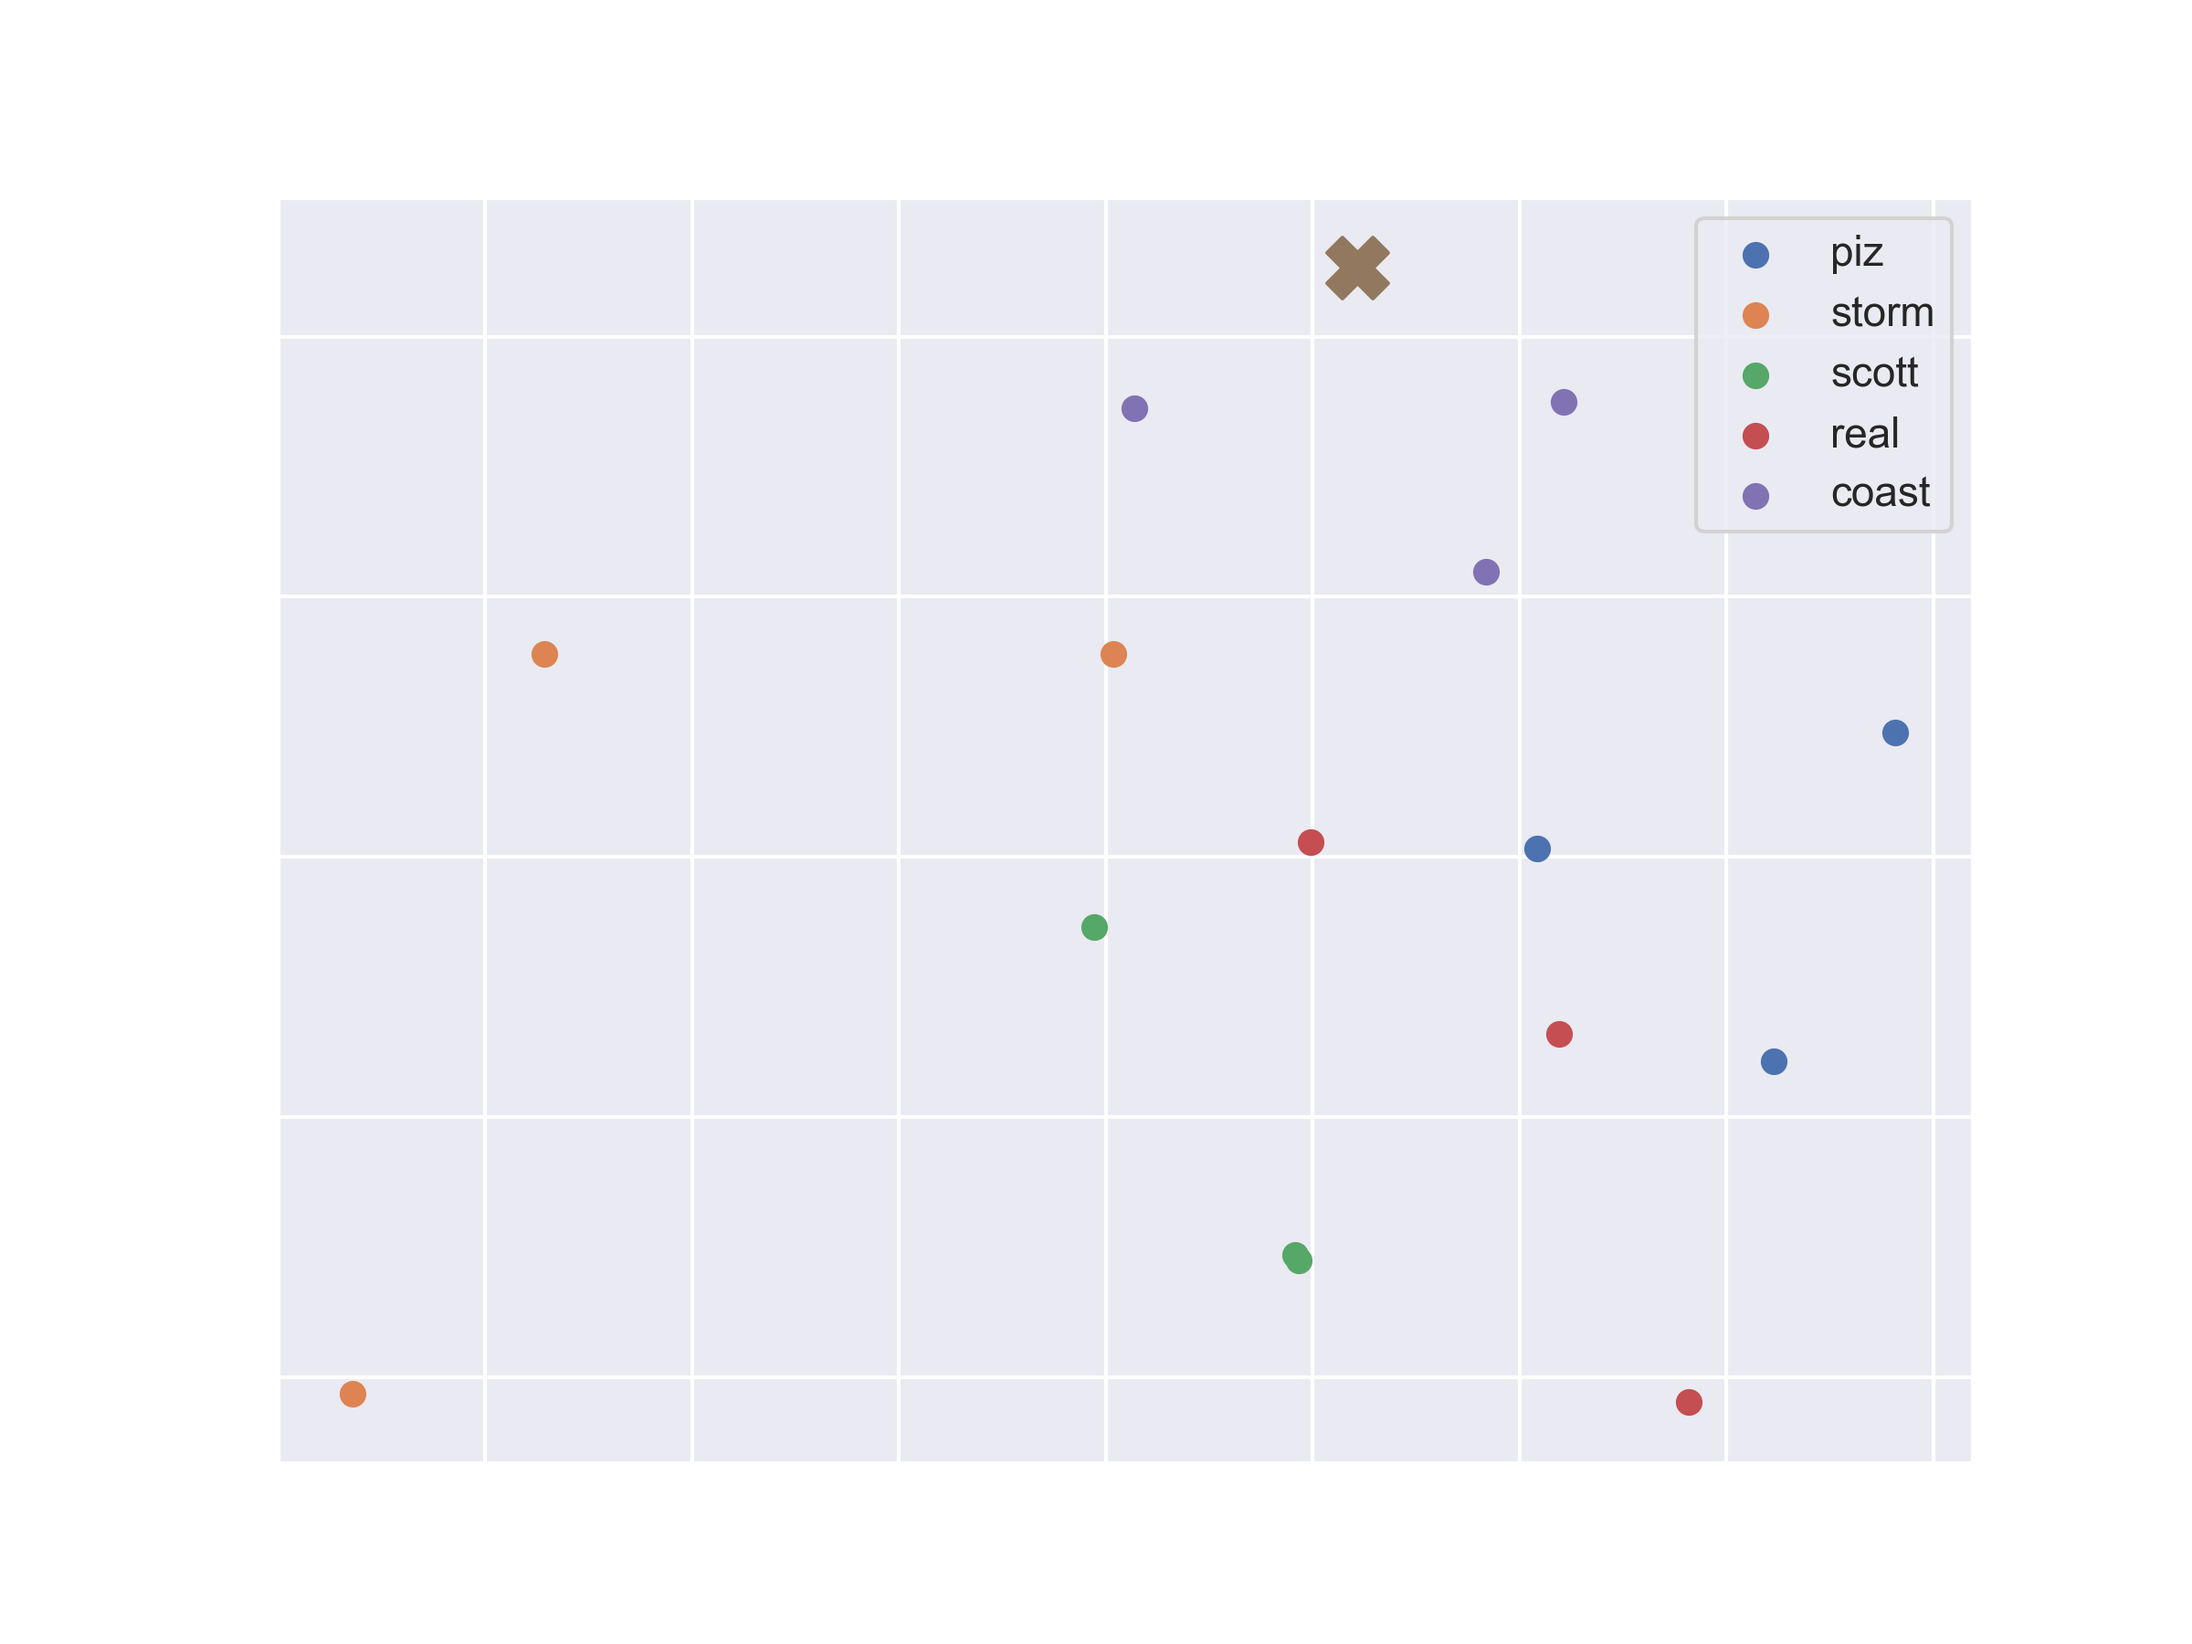
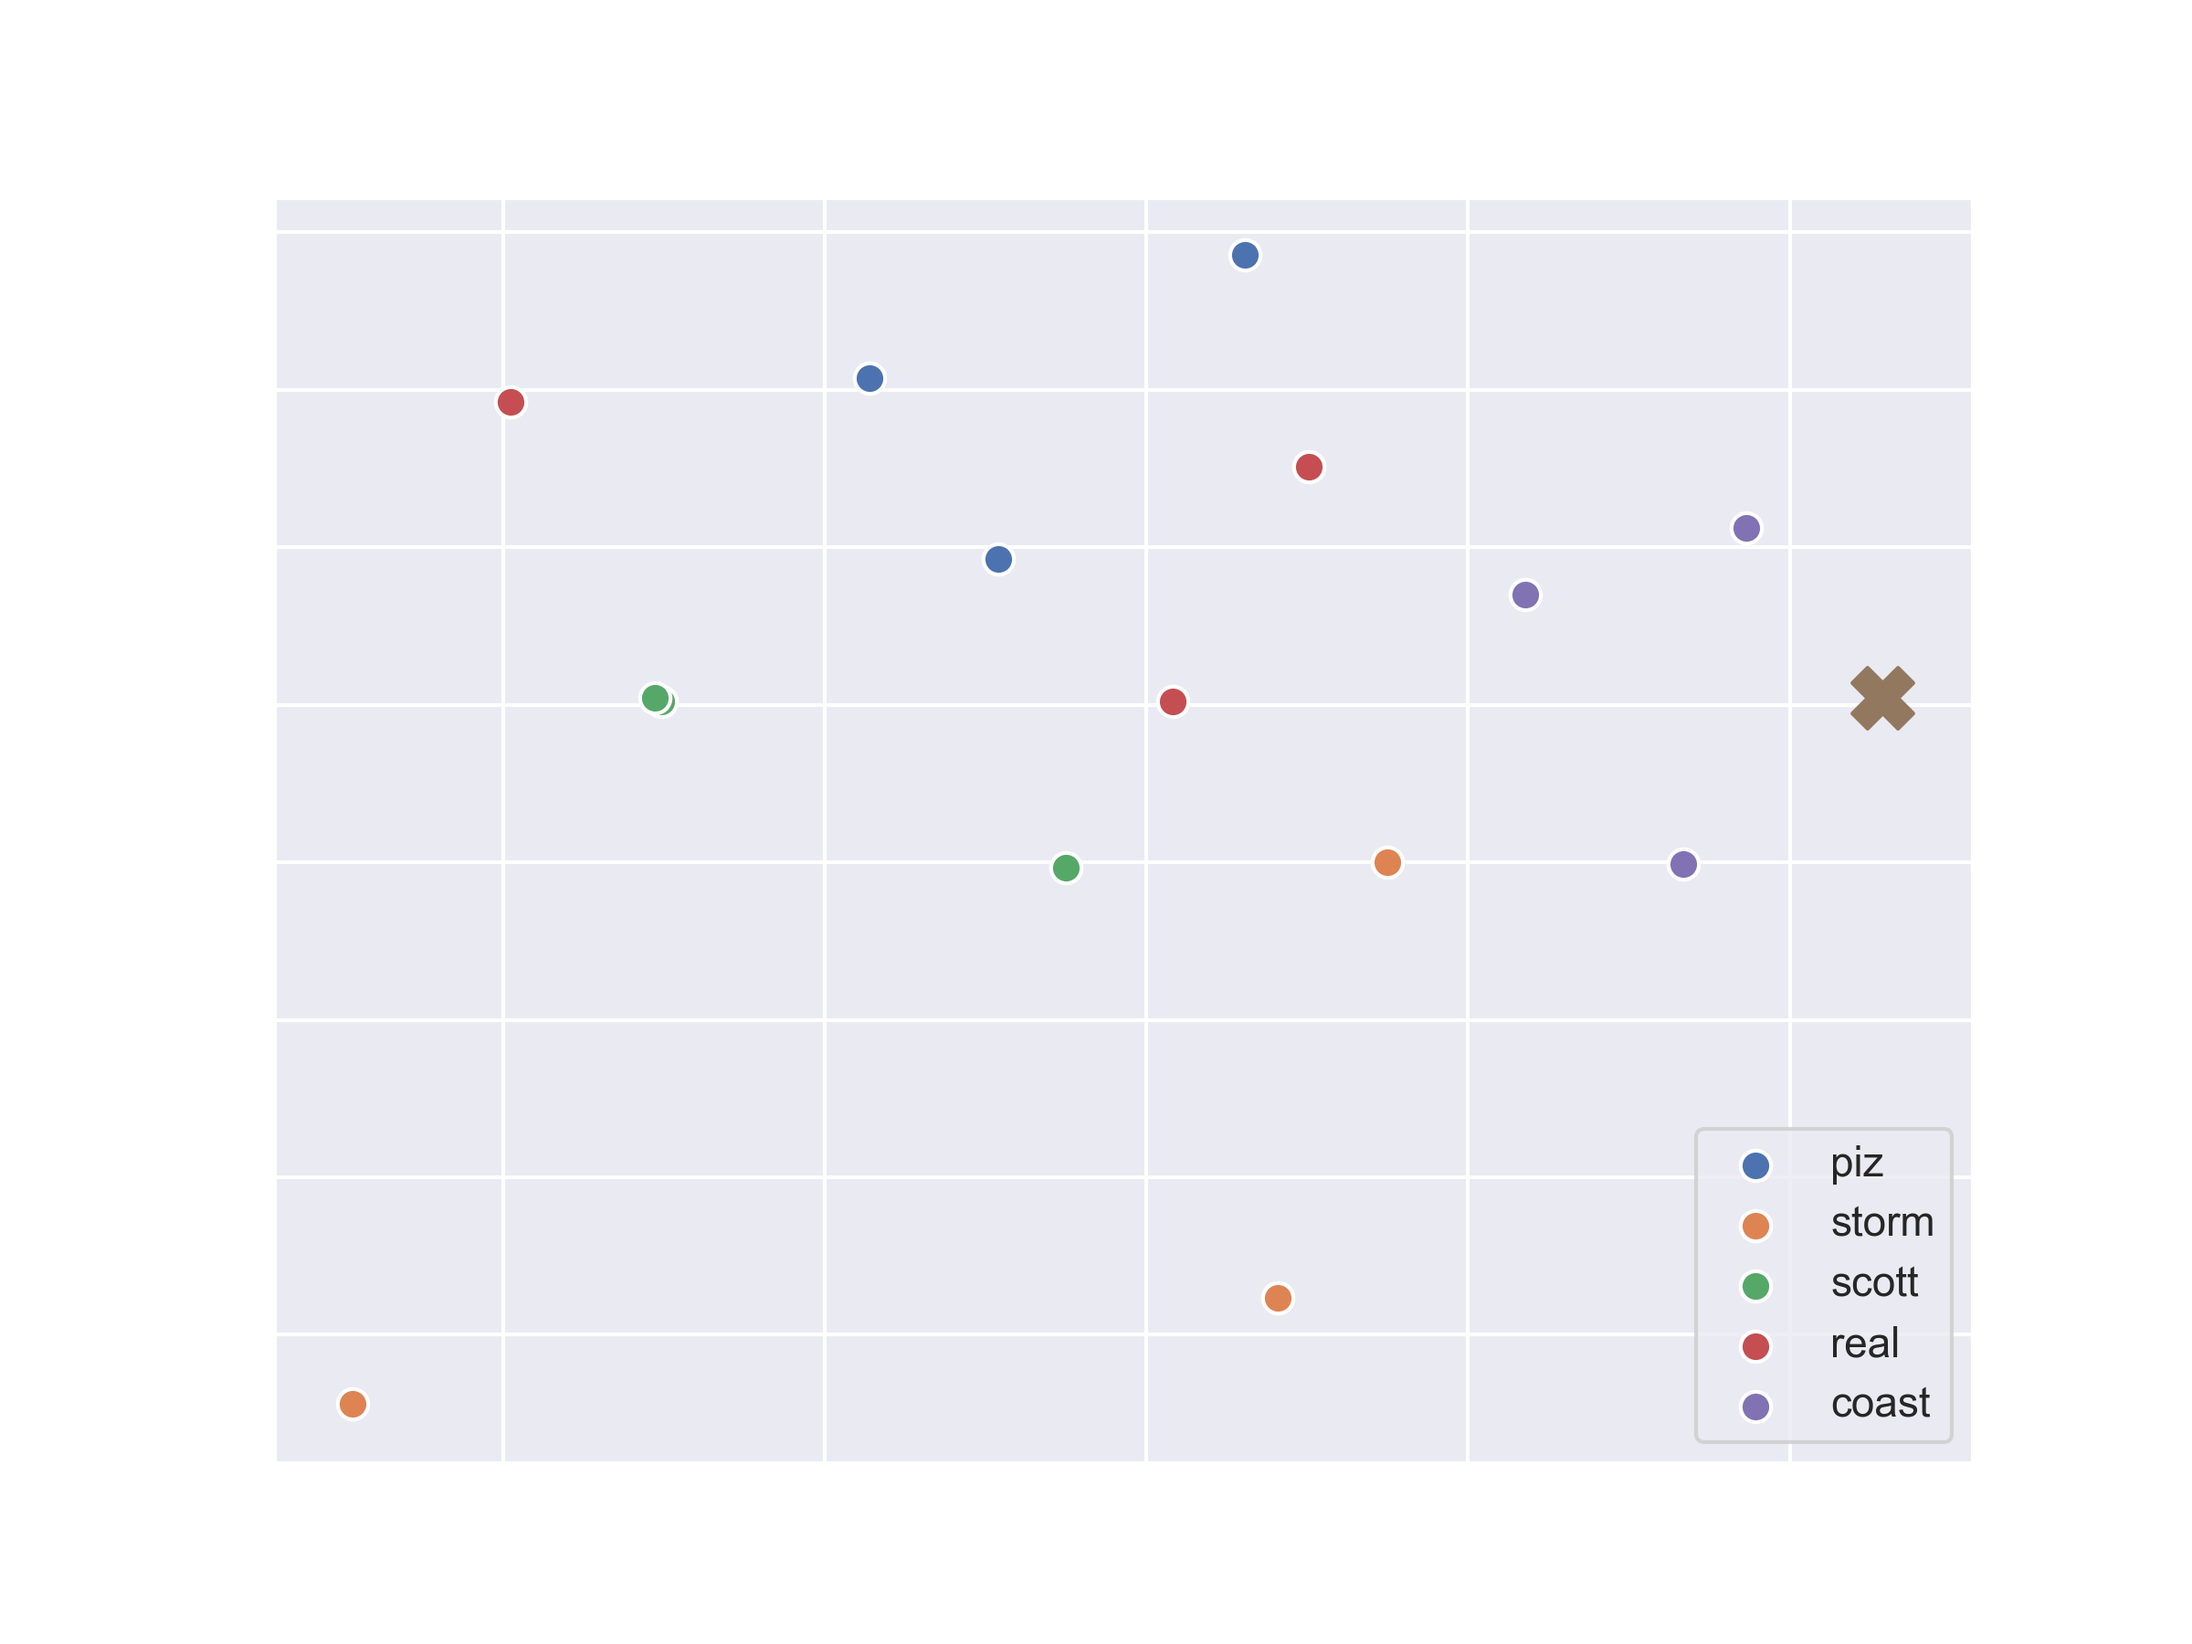
clean up plot a bit

diff --git a/src/figures.py b/src/figures.py
@@ -93,7 +93,7 @@ def plot_embeddings(model_name, support_embeddings, target_embeddings, labels):
     for label, examples_points in zip(labels, support_points):
         x = examples_points[:, 0]
         y = examples_points[:, 1]
-        ax.scatter(x, y, label=label)
+        ax.scatter(x, y, label=label, s=2**6, edgecolors='w', linewidths=1)
 
     # Plot target set point
     x = target_points[:, 0]
